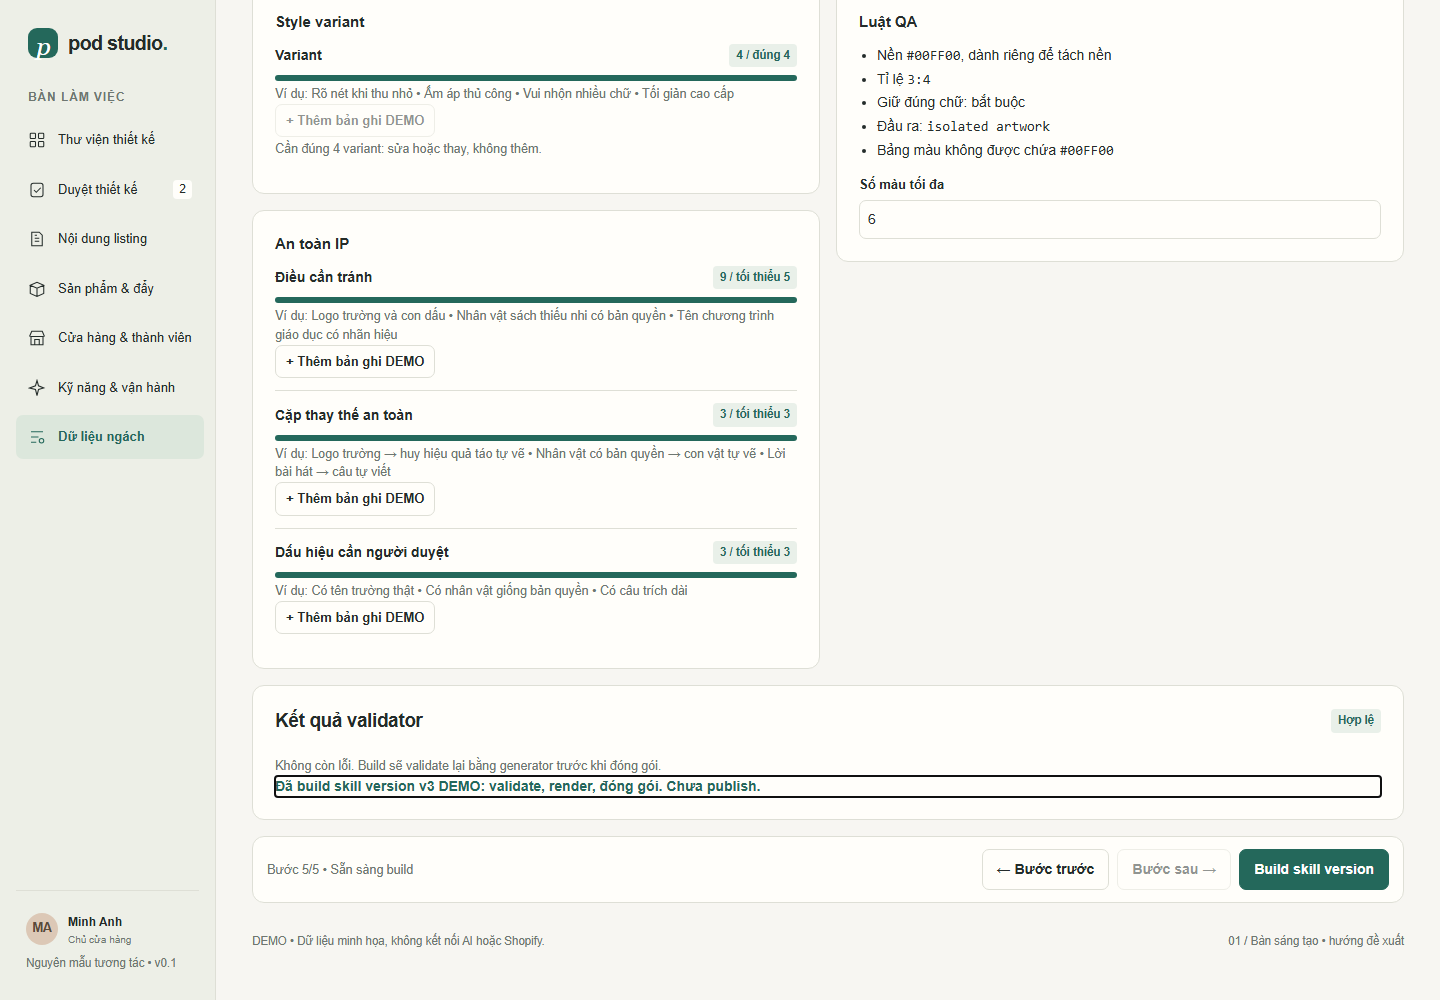
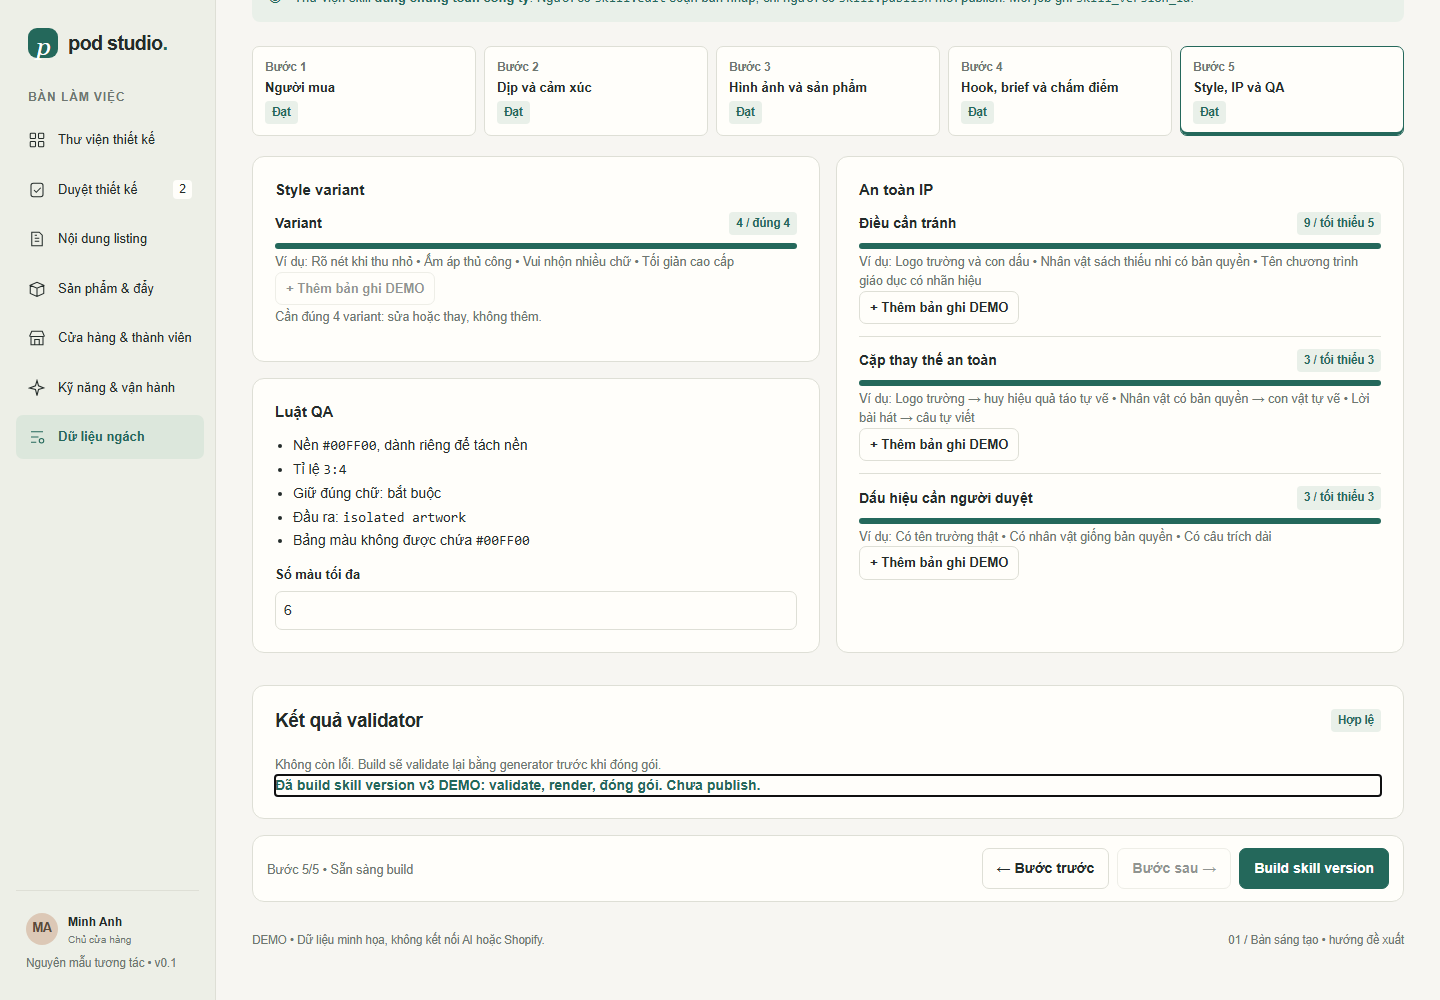
fix(wireframes): balance screen 7 step 5 columns
Step 5 used CSS multi-column flow, so Style variant and the tall IP safety
card shared the left column and left a 407px gap under QA rules at 1440px
(445px at 1024px). Above 760px the step now uses a 2-column grid: IP safety
spans the right column, Style variant and QA rules stack on the left.
At 760px and below it stays one column in the original order.

Add checks: no gap under QA rules at 1440px, balanced columns at 1024px,
single column and order kept at 390px. Wireframe suite: 104/104.

diff --git a/design/wireframes/index.html b/design/wireframes/index.html
@@ -15,7 +15,7 @@
 .toast{top:18px;bottom:auto}
 .reviewpair{grid-template-columns:minmax(0,1fr) minmax(0,1.2fr)}.reviewpair>div{min-width:0}.caption{flex-wrap:wrap;gap:2px 8px}.split>*{min-width:0}@media(max-width:760px){.split{grid-template-columns:minmax(0,1fr)}}.toast{top:auto;bottom:92px}dialog.drawer[open]{display:flex;flex-direction:column}dialog.drawer .dialogfoot{margin-top:auto}
 @media(max-width:760px){.nav{display:grid;grid-template-columns:repeat(3,minmax(0,1fr));gap:4px;overflow:visible;padding-bottom:10px}.nav button{flex-direction:column;justify-content:center;gap:4px;padding:8px 4px;min-height:56px;font-size:12px;line-height:1.25;text-align:center;white-space:normal}.nav button span{overflow-wrap:anywhere;text-wrap:balance}.nav button svg{width:16px;height:16px}}
-.nsteps{display:grid;grid-template-columns:repeat(5,minmax(0,1fr));gap:8px;margin:20px 0}.nsteps button{display:flex;flex-direction:column;align-items:flex-start;gap:4px;text-align:left;padding:11px 12px;min-width:0;white-space:normal}.nsteps button span:not(.badge){font-weight:600;font-size:13px;line-height:1.3}.nsteps button[aria-current=step]{border-color:var(--teal);box-shadow:inset 0 -3px 0 var(--teal)}.nsec{columns:2 340px;column-gap:16px}.nsec .nsection{break-inside:avoid;margin:0 0 16px;display:block}.nsection h3{margin:0 0 12px}.nfield{border-top:1px solid var(--line);padding:12px 0}.nfield:first-of-type{border-top:0;padding-top:0}.nfield .meta{display:block;overflow-wrap:anywhere}.progress{height:6px;border-radius:4px;background:var(--line);margin:8px 0 4px;overflow:hidden}.progress i{display:block;height:100%;background:var(--teal)}.nkv{display:grid;grid-template-columns:auto minmax(0,1fr);gap:8px 14px;font-size:13px}.nkv code,.nerrs code{overflow-wrap:anywhere}.scoregrid{display:grid;grid-template-columns:repeat(2,minmax(0,1fr));gap:10px}.scoregrid select,#nicheStatus,#nicheMaxColors{display:block;width:100%;margin-top:6px;padding:8px}.nqa{margin:0 0 12px;padding-left:18px;line-height:1.7}.nerrline{color:#9d4f3d;font-size:12.5px}.nresult{margin-top:16px}.nerrs{list-style:none;margin:0;padding:0}.nerrs li{display:flex;justify-content:space-between;gap:10px;align-items:center;padding:8px 0;border-top:1px solid var(--line)}.nbuilt{color:var(--teal);font-weight:600}.nbar{position:sticky;bottom:0;z-index:5;display:flex;justify-content:space-between;align-items:center;gap:12px;flex-wrap:wrap;margin-top:16px;padding:12px 14px;background:var(--paper);border:1px solid var(--line);border-radius:var(--radius)}.nbtns{display:flex;gap:8px;flex-wrap:wrap}@media(max-width:1150px){.nsteps{grid-template-columns:repeat(3,minmax(0,1fr))}}@media(max-width:760px){.nsteps{grid-template-columns:repeat(2,minmax(0,1fr))}.nsec{columns:1}.scoregrid{grid-template-columns:1fr}.nbar{flex-direction:column;align-items:stretch}.nbtns button{flex:1}}@media(max-width:420px){.nbar{position:static}.nsteps{display:flex;overflow-x:auto}.nsteps button{flex:0 0 150px}.nbtns{display:grid;grid-template-columns:1fr 1fr}.nbtns .primary{grid-column:1/-1}.nerrs li{flex-direction:column;align-items:stretch}}
+.nsteps{display:grid;grid-template-columns:repeat(5,minmax(0,1fr));gap:8px;margin:20px 0}.nsteps button{display:flex;flex-direction:column;align-items:flex-start;gap:4px;text-align:left;padding:11px 12px;min-width:0;white-space:normal}.nsteps button span:not(.badge){font-weight:600;font-size:13px;line-height:1.3}.nsteps button[aria-current=step]{border-color:var(--teal);box-shadow:inset 0 -3px 0 var(--teal)}.nsecwrap{container-type:inline-size}.nsec{columns:2 340px;column-gap:16px}@media(min-width:761px){@container (min-width:696px){.nsec[data-nsec-step="4"]{display:grid;grid-template-columns:repeat(2,minmax(0,1fr));column-gap:16px;align-items:start}.nsec[data-nsec-step="4"] [data-section="ip_safety"]{grid-column:2;grid-row:1/span 2;align-self:stretch}}}.nsec .nsection{break-inside:avoid;margin:0 0 16px;display:block}.nsection h3{margin:0 0 12px}.nfield{border-top:1px solid var(--line);padding:12px 0}.nfield:first-of-type{border-top:0;padding-top:0}.nfield .meta{display:block;overflow-wrap:anywhere}.progress{height:6px;border-radius:4px;background:var(--line);margin:8px 0 4px;overflow:hidden}.progress i{display:block;height:100%;background:var(--teal)}.nkv{display:grid;grid-template-columns:auto minmax(0,1fr);gap:8px 14px;font-size:13px}.nkv code,.nerrs code{overflow-wrap:anywhere}.scoregrid{display:grid;grid-template-columns:repeat(2,minmax(0,1fr));gap:10px}.scoregrid select,#nicheStatus,#nicheMaxColors{display:block;width:100%;margin-top:6px;padding:8px}.nqa{margin:0 0 12px;padding-left:18px;line-height:1.7}.nerrline{color:#9d4f3d;font-size:12.5px}.nresult{margin-top:16px}.nerrs{list-style:none;margin:0;padding:0}.nerrs li{display:flex;justify-content:space-between;gap:10px;align-items:center;padding:8px 0;border-top:1px solid var(--line)}.nbuilt{color:var(--teal);font-weight:600}.nbar{position:sticky;bottom:0;z-index:5;display:flex;justify-content:space-between;align-items:center;gap:12px;flex-wrap:wrap;margin-top:16px;padding:12px 14px;background:var(--paper);border:1px solid var(--line);border-radius:var(--radius)}.nbtns{display:flex;gap:8px;flex-wrap:wrap}@media(max-width:1150px){.nsteps{grid-template-columns:repeat(3,minmax(0,1fr))}}@media(max-width:760px){.nsteps{grid-template-columns:repeat(2,minmax(0,1fr))}.nsec{columns:1}.scoregrid{grid-template-columns:1fr}.nbar{flex-direction:column;align-items:stretch}.nbtns button{flex:1}}@media(max-width:420px){.nbar{position:static}.nsteps{display:flex;overflow-x:auto}.nsteps button{flex:0 0 150px}.nbtns{display:grid;grid-template-columns:1fr 1fr}.nbtns .primary{grid-column:1/-1}.nerrs li{flex-direction:column;align-items:stretch}}
 </style>
 </head>
 <body>
@@ -97,7 +97,7 @@ function nichePage(){const n=state.nicheEditor,errs=nicheErrors(),step=n.step;
 return head('Dữ liệu ngách','Soạn master data, build skill.','Niche Quà tặng giáo viên • schema 2.0 • nguồn của niche agent.','<span class="badge grey">Bản nháp v3 DEMO</span>')+
 '<div class="notice"><span style="font-size:17px" aria-hidden="true">◎</span><p>Thư viện skill <b>dùng chung toàn công ty</b>. Người có <code>skill.edit</code> soạn bản nháp; chỉ người có <code>skill.publish</code> mới publish. Mỗi job ghi <code>skill_version_id</code>.</p></div>'+
 '<div class="nsteps" role="list">'+NICHE_STEPS.map((t,i)=>{const b=errs.filter(e=>e[2]===i).length;return '<button role="listitem" data-nstep="'+i+'" '+(i===step?'aria-current="step"':'')+'><small>Bước '+(i+1)+'</small><span>'+t+'</span>'+(b?'<span class="badge red">'+b+' lỗi</span>':'<span class="badge">Đạt</span>')+'</button>';}).join('')+'</div>'+
-'<div class="nsec">'+NICHE_SECTIONS.filter(s=>s[2]===step).map(nicheSection).join('')+'</div>'+
+'<div class="nsecwrap"><div class="nsec" data-nsec-step="'+step+'">'+NICHE_SECTIONS.filter(s=>s[2]===step).map(nicheSection).join('')+'</div></div>'+
 '<section class="panel nresult"><div class="panelhead"><h2>Kết quả validator</h2><span class="badge '+(errs.length?'red':'')+'">'+(errs.length?errs.length+' lỗi':'Hợp lệ')+'</span></div>'+(errs.length?'<ul class="nerrs">'+errs.map(([p,m,s])=>'<li><code>- '+p+': '+m+'</code><button class="small" data-nfix="'+p+'" data-fixstep="'+s+'">Sửa</button></li>').join('')+'</ul>':'<p class="meta">Không còn lỗi. Build sẽ validate lại bằng generator trước khi đóng gói.</p>')+(n.built?'<p class="nbuilt" tabindex="-1" role="status">Đã build skill version v3 DEMO: validate, render, đóng gói. Chưa publish.</p>':'')+'</section>'+
 '<div class="nbar" id="nicheBar"><span class="meta">Bước '+(step+1)+'/5 • '+(errs.length?errs.length+' lỗi chặn build':'Sẵn sàng build')+'</span><div class="nbtns"><button data-nprev '+(step===0?'disabled':'')+'>← Bước trước</button><button data-nnext '+(step===4?'disabled':'')+'>Bước sau →</button><button class="primary" data-nbuild '+(errs.length?'disabled':'')+'>Build skill version</button></div></div>';}
 document.addEventListener('click',e=>{const b=e.target.closest('button');if(!b||state.screen!=='niche'||b.disabled)return;const n=state.nicheEditor;

diff --git a/docs/plan.md b/docs/plan.md
@@ -131,7 +131,7 @@ Xem `packages/contracts/README.md`. Điểm chính cần ngatruong123 duyệt:
 | 6 | Skills và vận hành | admin, người viết skill | Thư viện skill 3 loại, account AI (kèm trạng thái đăng nhập lại), worker |
 | 7 | Dữ liệu ngách | người viết skill, người publish | Soạn niche master data 5 bước, validator có nút Sửa, chấm 6 tiêu chí, build skill version |
 
-Kiểm bằng máy: `node design/wireframes/test-wireframes.mjs` đạt 101/101 (điều hướng, phím tắt, quyền, luật tối thiểu và chấm điểm màn 7, không tràn ngang ở 1024/760/390 trên cả 7 màn).
+Kiểm bằng máy: `node design/wireframes/test-wireframes.mjs` đạt 104/104 (điều hướng, phím tắt, quyền, luật tối thiểu và chấm điểm màn 7, không tràn ngang ở 1024/760/390 trên cả 7 màn).
 
 ## 7b. Niche master data và build skill (tóm tắt ADR 0003)
 

diff --git a/design/wireframes/README.md b/design/wireframes/README.md
@@ -28,7 +28,7 @@ node design/wireframes/test-wireframes.mjs
 
 Cần một Chrome/Chromium; đặt đường dẫn qua biến `CHROME_PATH` (mặc định là Chromium của Playwright trên máy này). Script dùng CDP trực tiếp, không cần cài package. Kiểm: điều hướng 7 màn, focus và Esc trả focus về nút mở, phím A/R/mũi tên, ma trận quyền, luật tối thiểu, lỗi validator, chấm điểm và build của màn 7, không tràn ngang và không cắt nhãn thanh điều hướng ở 1024/760/390 trên cả 7 màn, chụp ảnh vào `screenshots/`.
 
-Lần chạy gần nhất: 101/101 đạt.
+Lần chạy gần nhất: 104/104 đạt.
 
 ## Giới hạn
 
